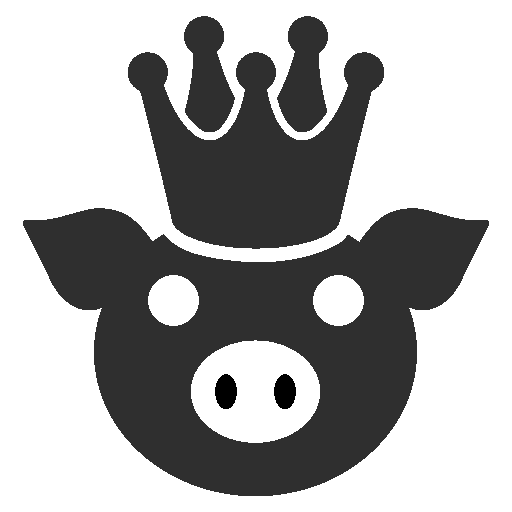
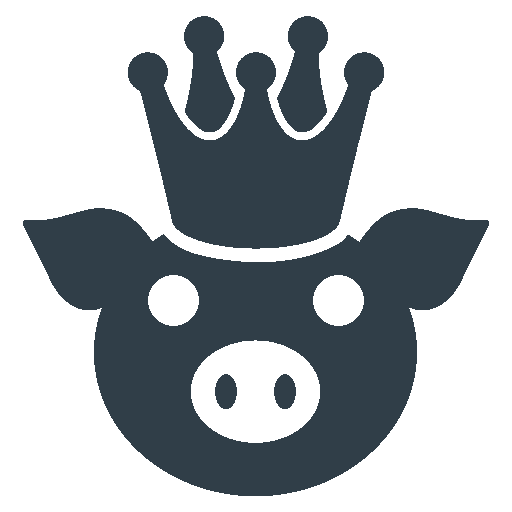
pigfix

diff --git a/hogout.client/src/components/SideBar.vue b/hogout.client/src/components/SideBar.vue
@@ -13,14 +13,14 @@
       </div>
     </div>
     <div class="row justify-content-center align-items-center mb-0">
-      <img title="Total Wins" class="icon-pig text-light" src="../assets/img/pig-crown.png" alt="Wins: " srcset="">
+      <img title="Total Wins" class="icon-pig text-light" src="../assets/img/pig-crown-sheet-colored.png" alt="Wins: " srcset="">
       <span class="px-2"><i class="mdi mdi-close"></i></span>
       <h5 class="mb-1">
         {{ state.wins.length }}
       </h5>
     </div>
     <div class="row justify-content-center align-items-center">
-      <img title="Total Attempts" class="icon-pig text-light" src="../assets/img/pig-normal.png" alt="Attempts: " srcset="">
+      <img title="Total Attempts" class="icon-pig text-light" src="../assets/img/pig-normal-colored.png" alt="Attempts: " srcset="">
       <span class="p-2"><i class="mdi mdi-close"></i></span>
       <h5 class="mb-1">
         {{ state.attempts.length }}
@@ -87,7 +87,7 @@ export default {
 .icon-pig{
   width: 3.5rem;
   margin-bottom: 1rem;
-  mix-blend-mode: color-burn;
+
   max-height: 51px;
 }
 </style>
